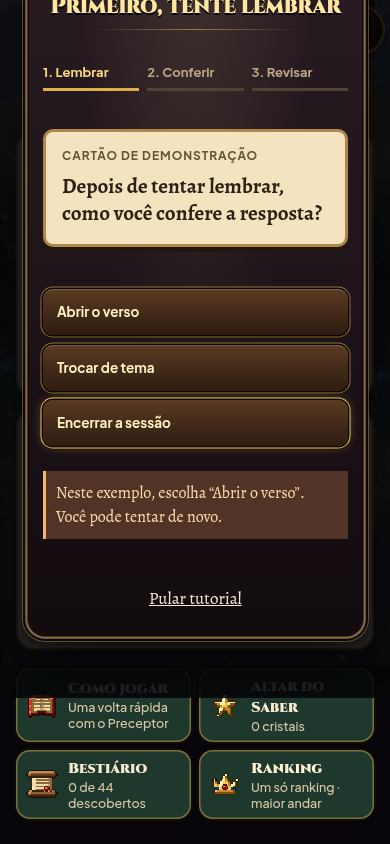
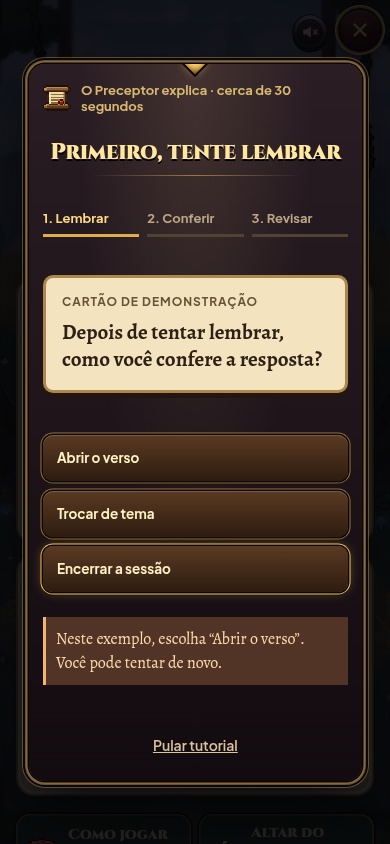
Mantém foco e rolagem do tutorial por etapa em telas baixas

diff --git a/src/flashcards/componentes/Tutorial.tsx b/src/flashcards/componentes/Tutorial.tsx
@@ -6,7 +6,11 @@ export function Tutorial({ aoFechar }: { aoFechar: () => void }) {
   const [etapa, definirEtapa] = useState(0)
   const [aviso, definirAviso] = useState('')
   const titulo = useRef<HTMLHeadingElement>(null)
-  useEffect(() => { titulo.current?.focus({ preventScroll: true }); definirAviso('') }, [etapa])
+  useEffect(() => {
+    titulo.current?.parentElement?.scrollTo({ top: 0 })
+    titulo.current?.focus({ preventScroll: true })
+    definirAviso('')
+  }, [etapa])
   useEffect(() => {
     const tecla = (e: KeyboardEvent) => { if (e.key === 'Escape') { e.preventDefault(); e.stopImmediatePropagation(); aoFechar() } }
     window.addEventListener('keydown', tecla, true)

diff --git a/docs/flashcards/TUTORIAL-DESEMPENHO-14-10.md b/docs/flashcards/TUTORIAL-DESEMPENHO-14-10.md
@@ -6,7 +6,7 @@ O Preceptor convida para uma demonstração curta após a escolha inicial de som
 
 Ao concluir ou pular, salva apenas `tutorialVisto` nos Ajustes existentes, por ação explícita da pessoa. Mantém os outros campos. Isso segue o armazenamento existente: visitantes conservam a preferência na sessão; contas seguem a política já implementada. Não há migração SQL nem alteração em limites.
 
-O foco acompanha cada etapa, fica no diálogo e retorna ao botão Como jogar. O diálogo é irmão da Entrada rolável, evitando que a rolagem de fundo esconda seu título. Arte: ícone e moldura existentes, sem imagem externa ou gerada.
+O foco acompanha cada etapa, fica no diálogo e retorna ao botão Como jogar. O diálogo é irmão da Entrada rolável, evitando que a rolagem de fundo desloque o diálogo. Cada etapa retorna ao topo do painel; em telas baixas o próprio tutorial pode rolar. Arte: ícone e moldura existentes, sem imagem externa ou gerada.
 
 ## Desempenho (ideia 70, parcial)
 
